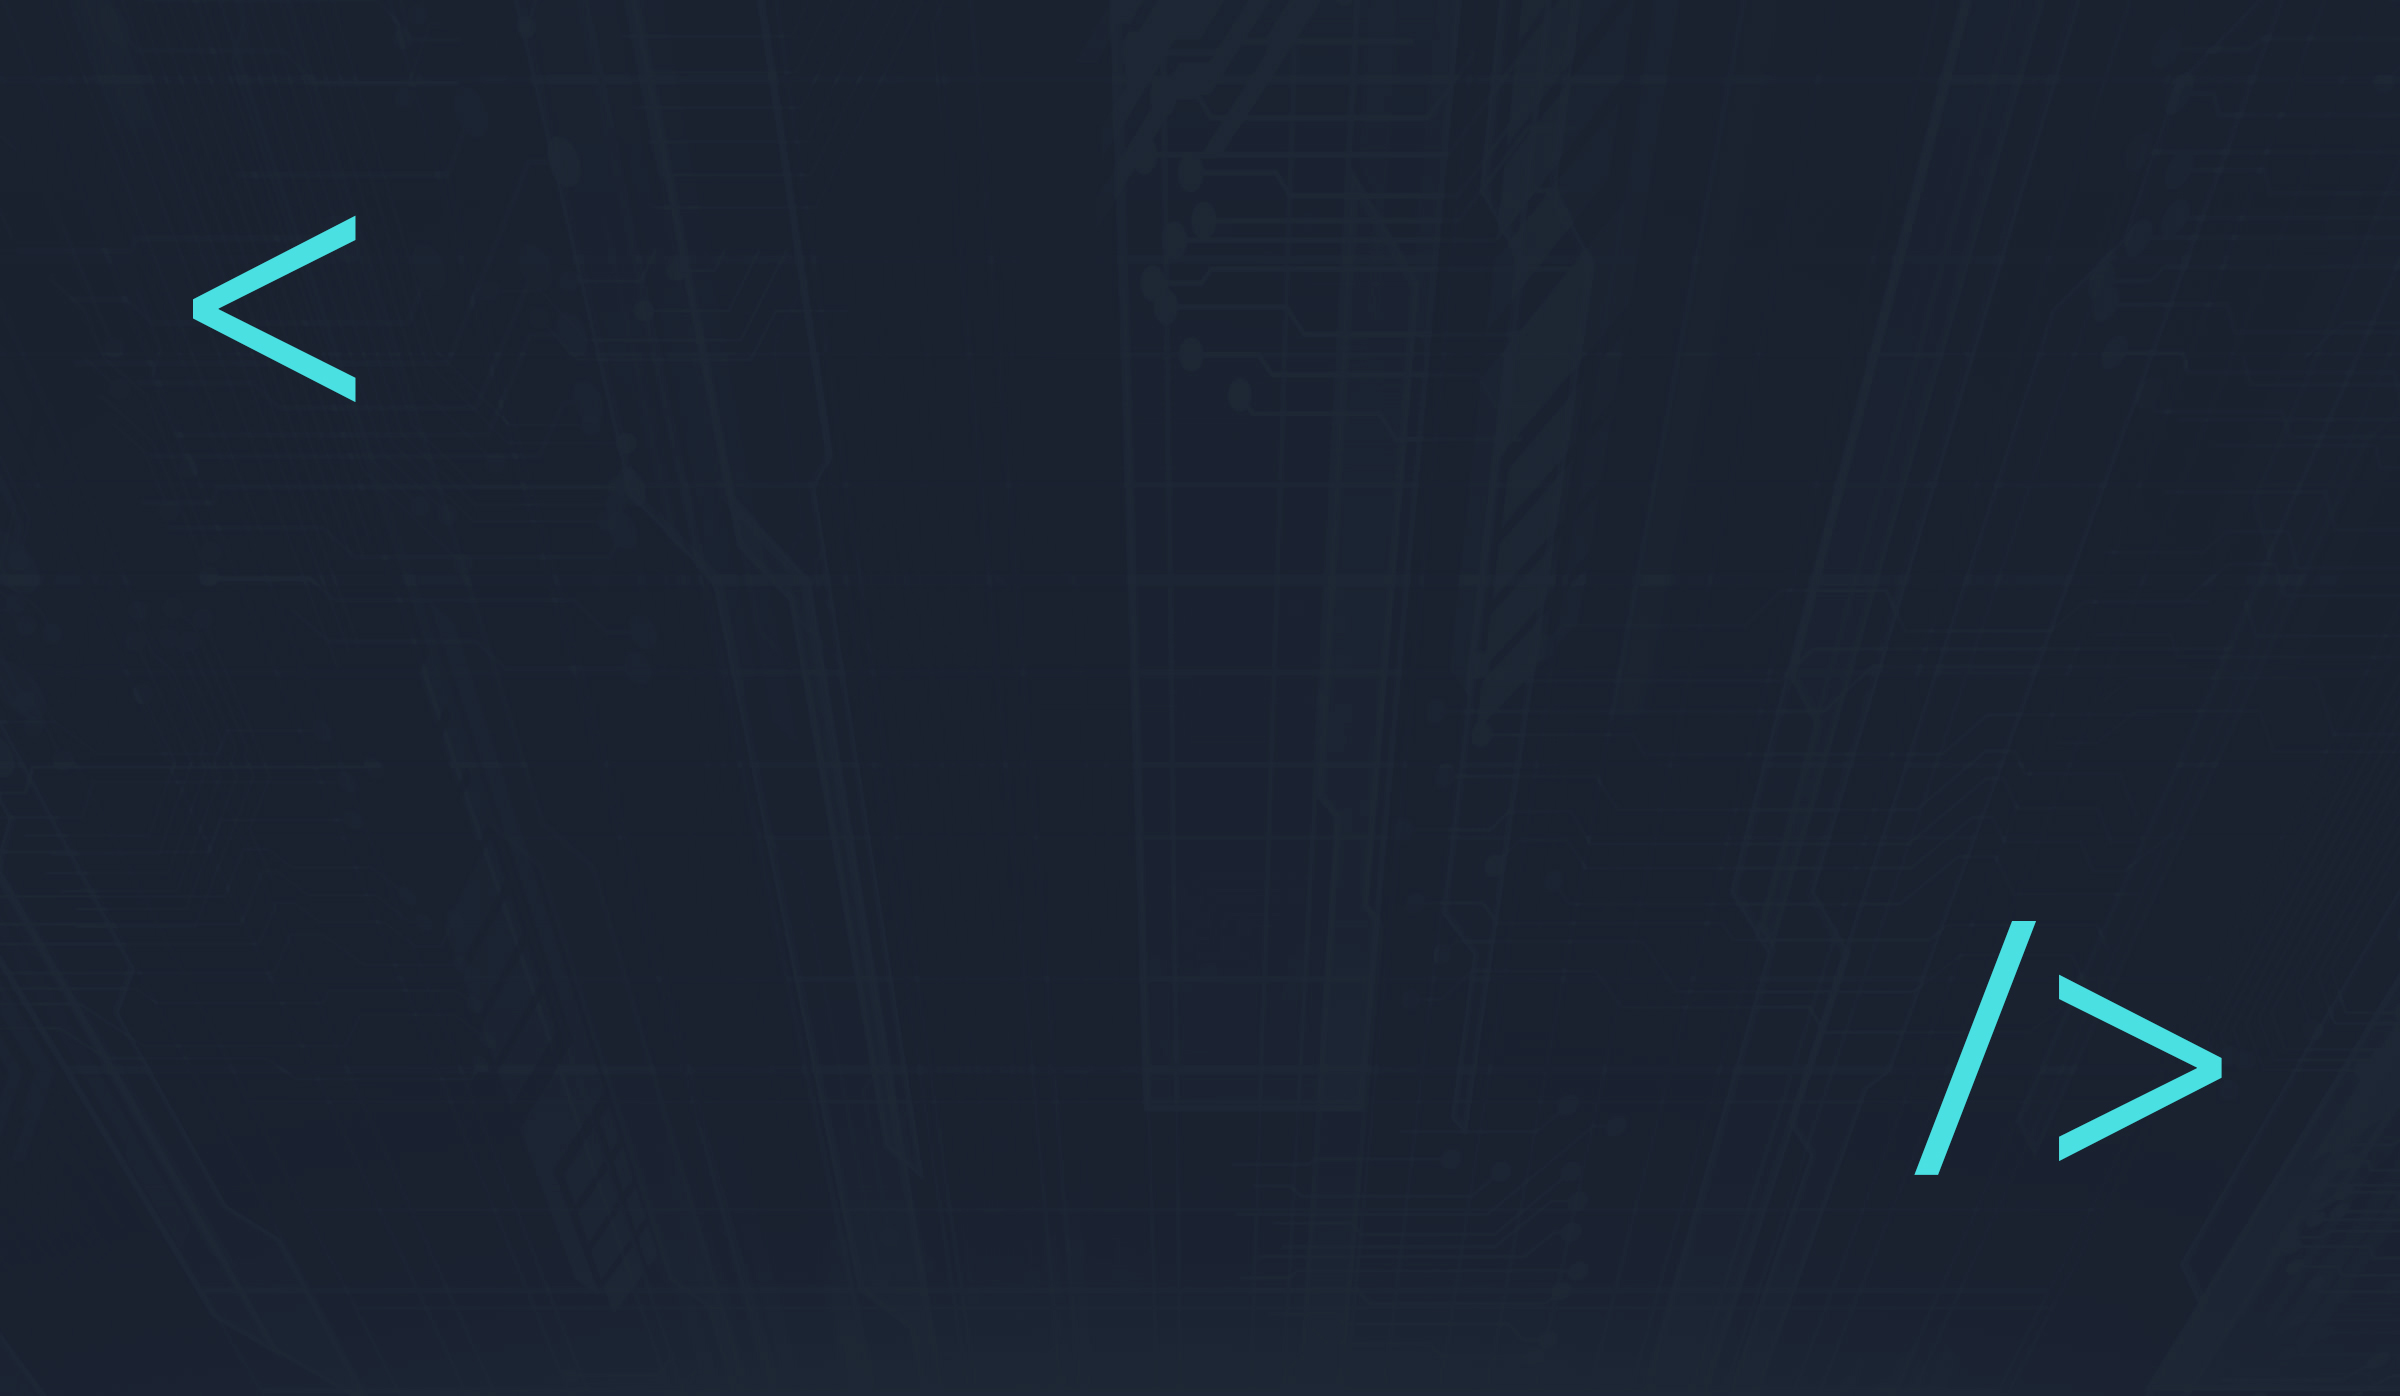
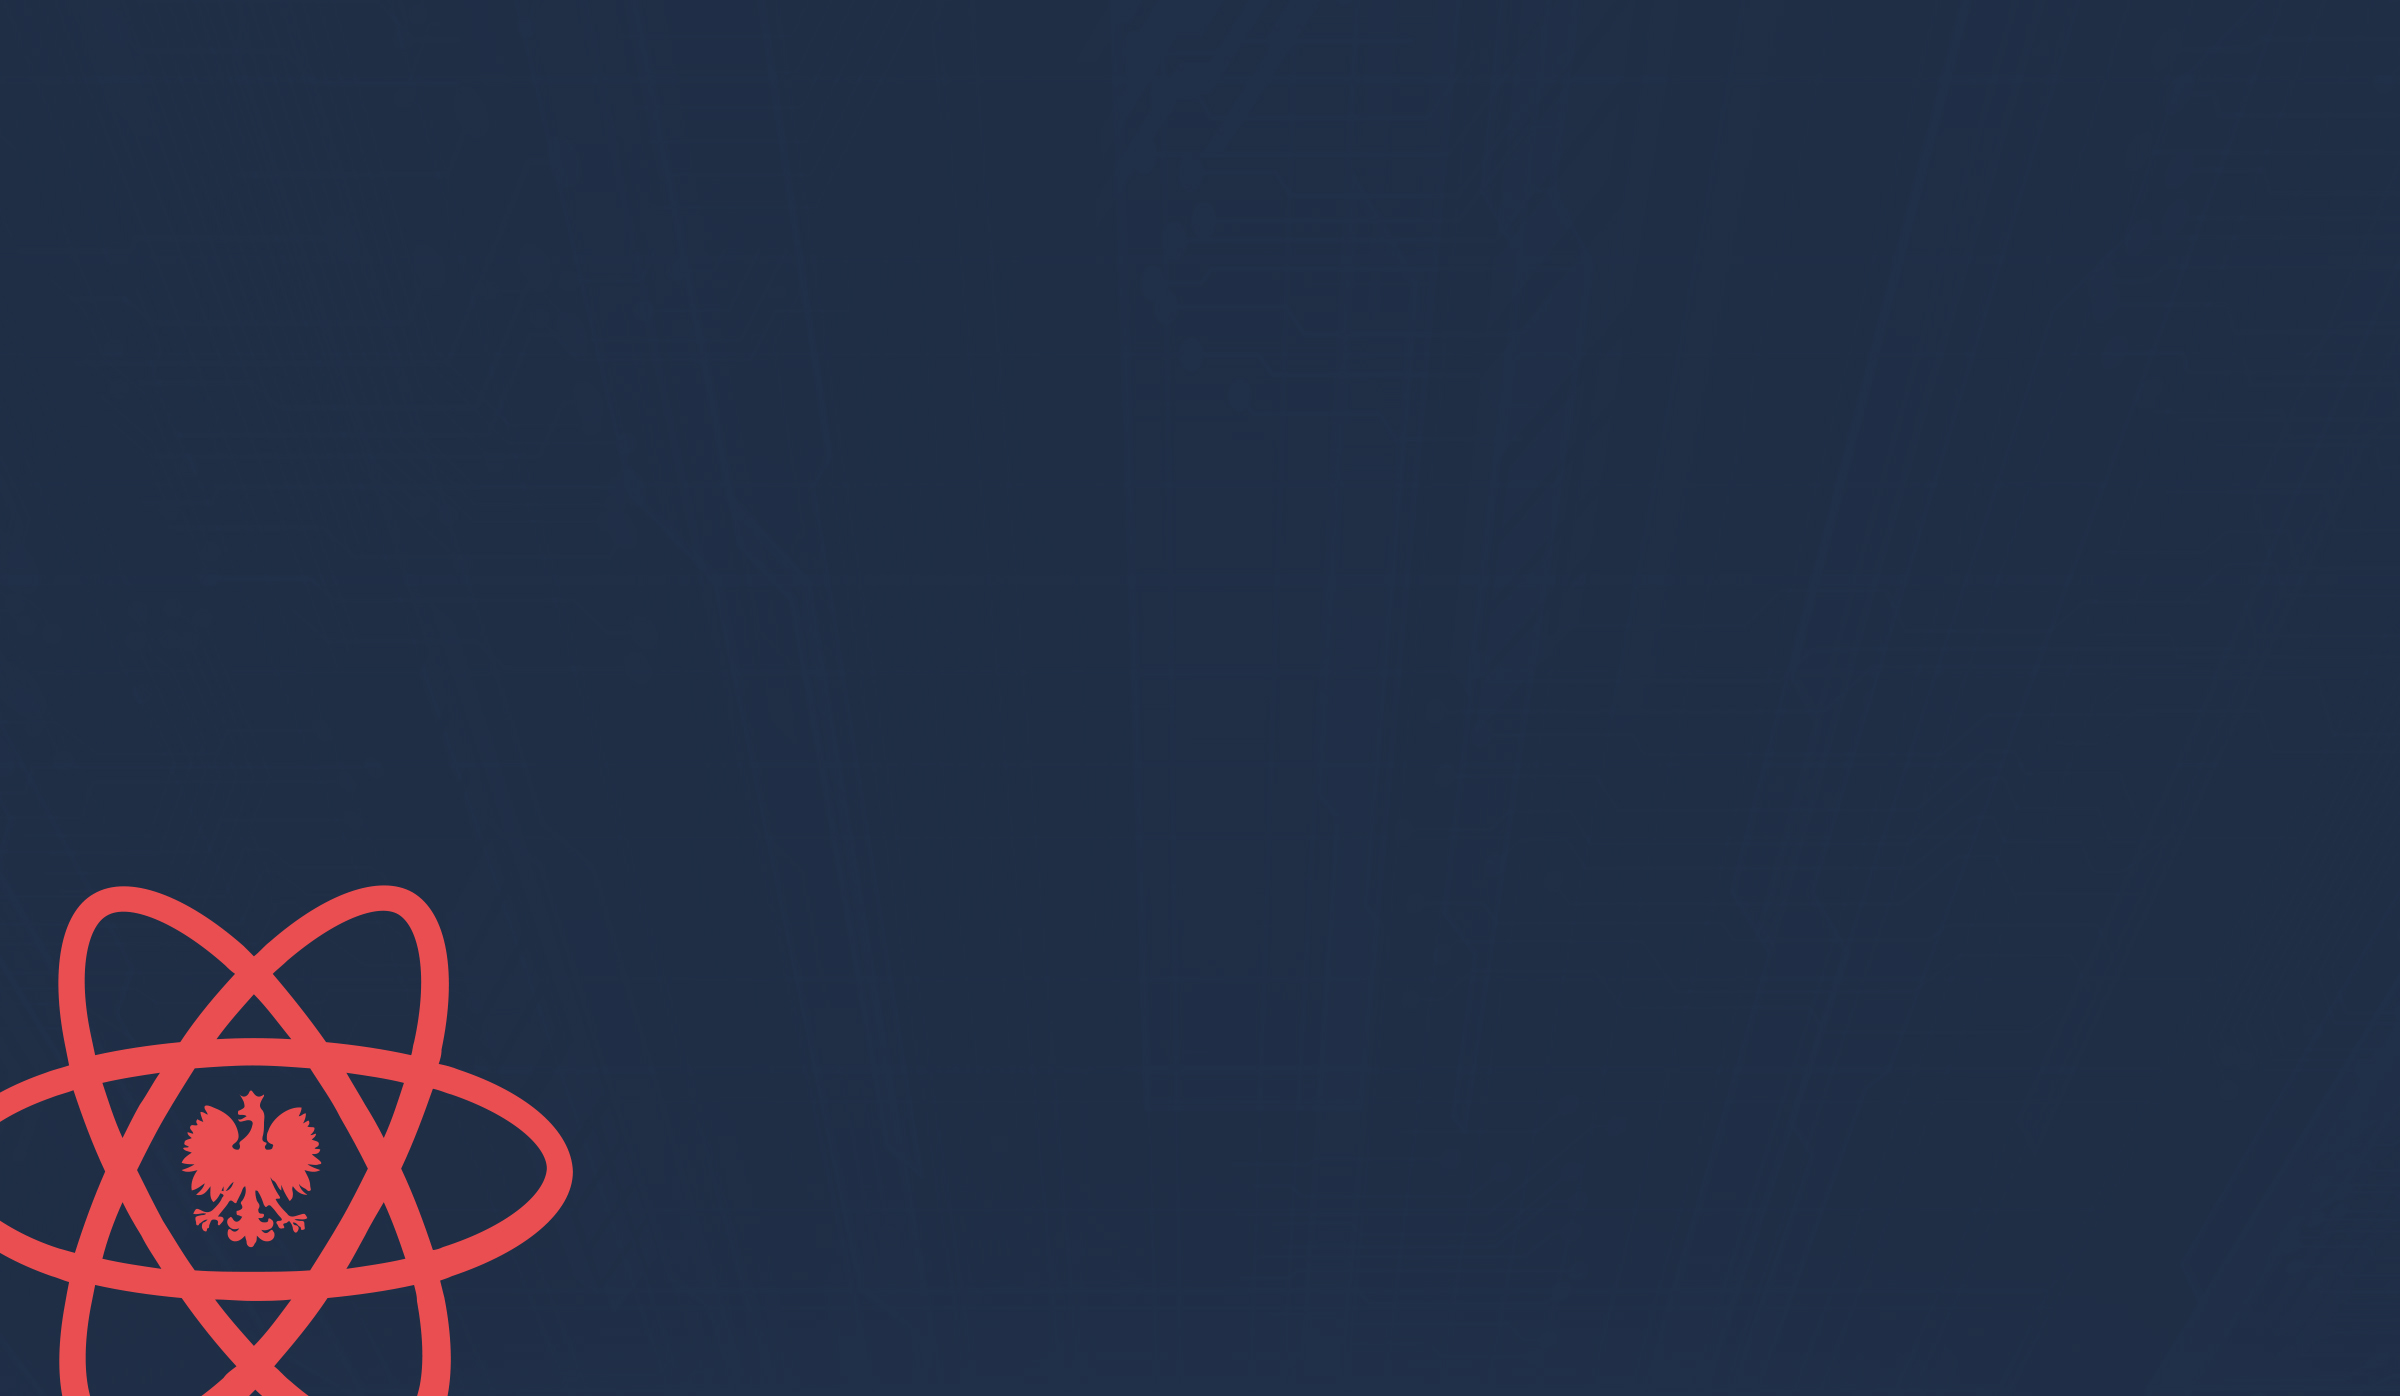
Cleanup.

diff --git a/styles.js b/styles.js
@@ -3,9 +3,9 @@ import createTheme from 'spectacle/lib/themes/default';
 import images from 'images';
 
 const colors = {
-  primary: '#3F65A3',
+  primary: '#EA4E51',
   secondary: '#FFFFFF',
-  tertiary: '#4AE0E2',
+  tertiary: '#CDFFFF',
   quartenary: '#CECECE',
 };
 
@@ -20,8 +20,8 @@ export const backgroundWithImage = {
   backgroundPosition: 'center',
 };
 
-export const boldedTertiary = {
-  color: colors.tertiary,
+export const boldedPrimary = {
+  color: colors.primary,
   fontWeight: 'bold',
 };
 

diff --git a/slides/intro/aboutus.js b/slides/intro/aboutus.js
@@ -39,14 +39,14 @@ export default (
       <div>
         <Layout>
           <PersonTile
-            image={images.mike}
+            image={images.chudziak}
             name="Michał Chudziak"
             github="mike866"
           />
           <PersonTile
-            image={images.mike}
-            name="Michał Chudziak"
-            github="mike866"
+            image={images.dratwa}
+            name="Piotr Drapich"
+            github="dratwas"
           />
         </Layout>
       </div>

diff --git a/images.js b/images.js
@@ -1,9 +1,10 @@
 import preloader from 'spectacle/lib/utils/preloader';
 
 const images = {
-  logo: require('assets/img/logo-blue.svg'),
+  logo: require('assets/img/logo.svg'),
   background: require('assets/img/bg.jpg'),
-  mike: require('assets/img/mike.jpg'),
+  chudziak: require('assets/img/chudziak.jpg'),
+  dratwa: require('assets/img/dratwa.jpg'),
 };
 
 preloader(images);

diff --git a/slides/intro/index.js b/slides/intro/index.js
@@ -1,4 +1,4 @@
-import first from './1st';
-import second from './2nd';
+import title from './title';
+import aboutus from './aboutus';
 
-export default [first, second];
+export default [title, aboutus];
